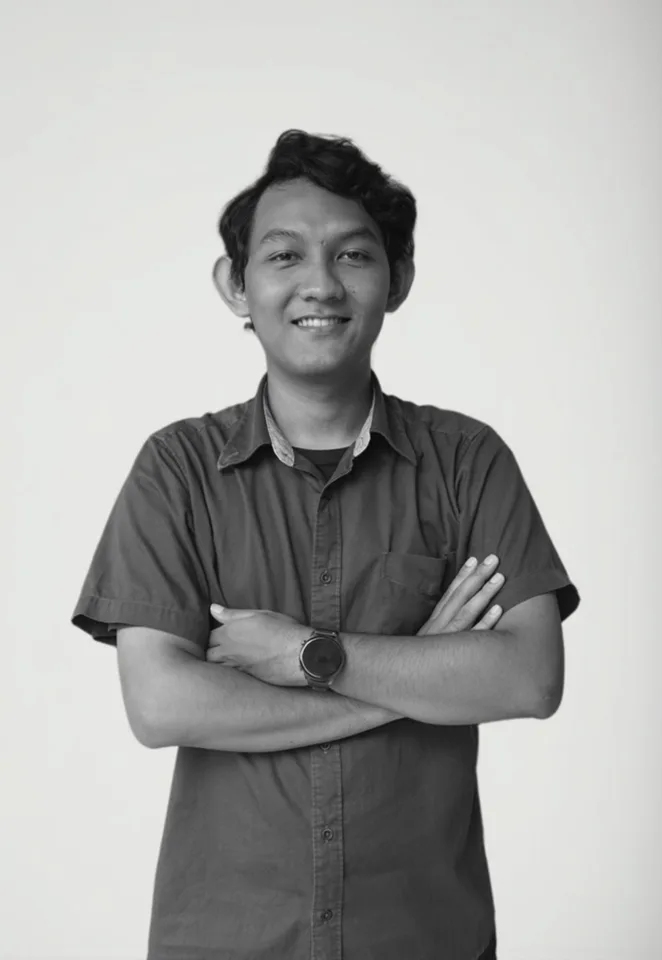
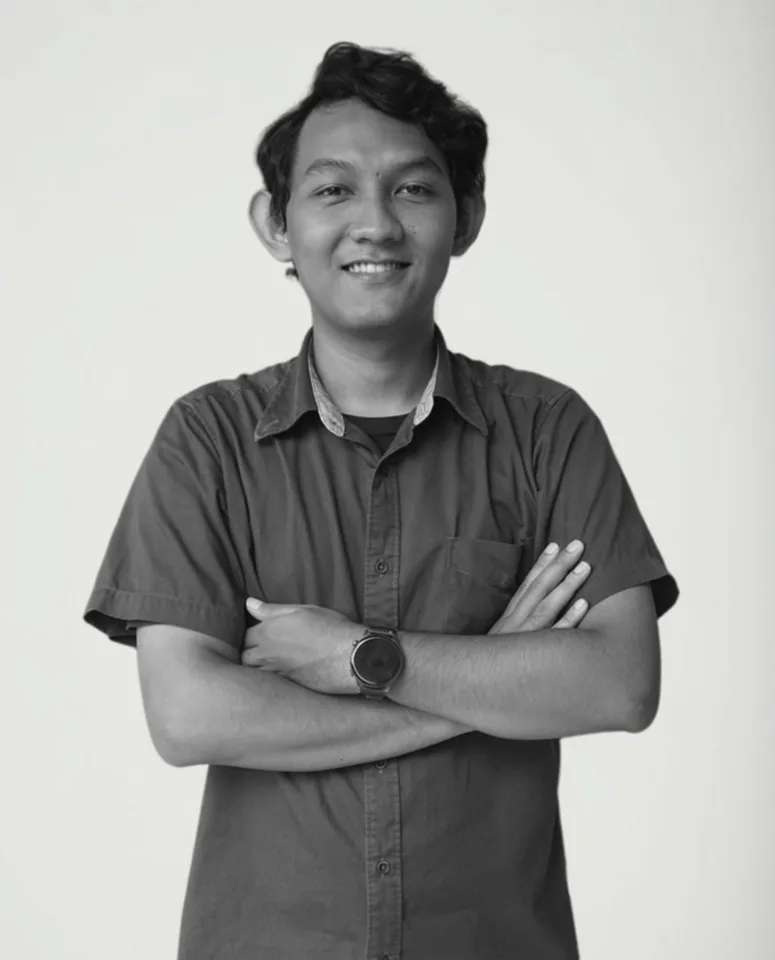
fixing style

diff --git a/src/styles/global.css b/src/styles/global.css
@@ -228,6 +228,9 @@ img {
   height: 34px;
   object-fit: contain;
   animation: glowDrift 4s ease-in-out infinite alternate;
+  position: absolute;
+  left: 4rem;
+  top: 1.9rem;
 }
 
 /* Buttons (.myBTN & .btn-project) */
